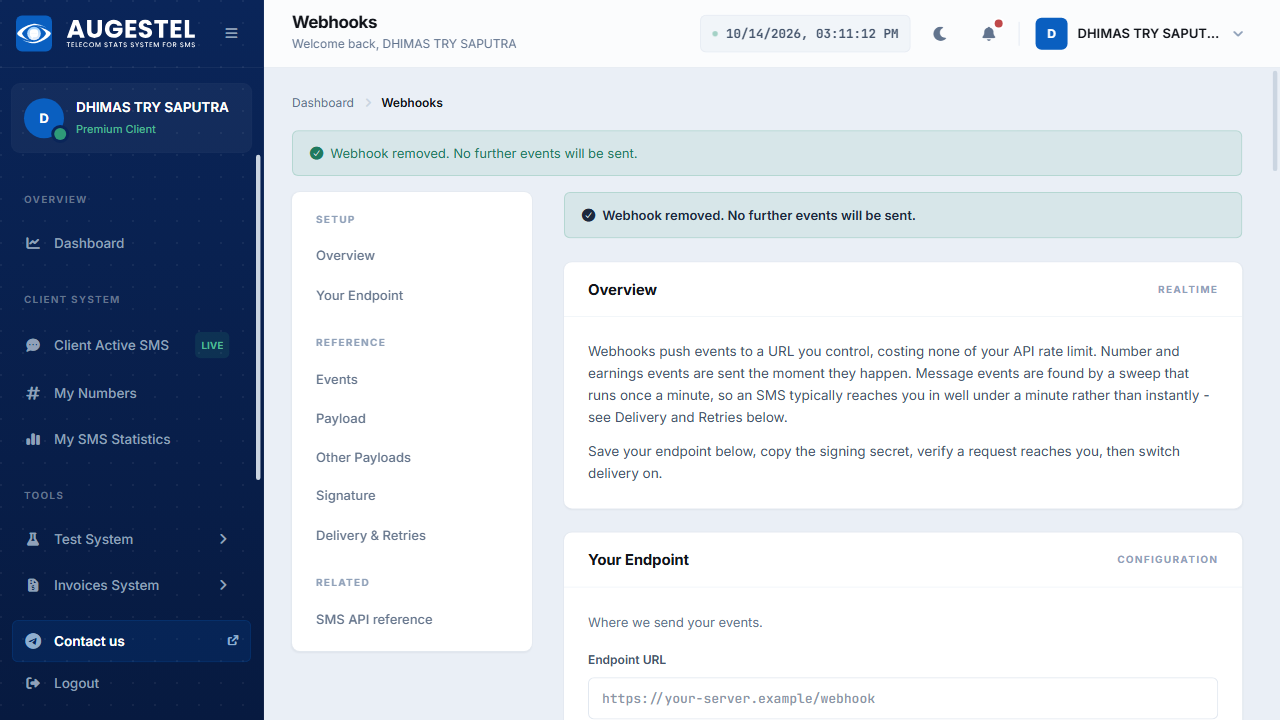
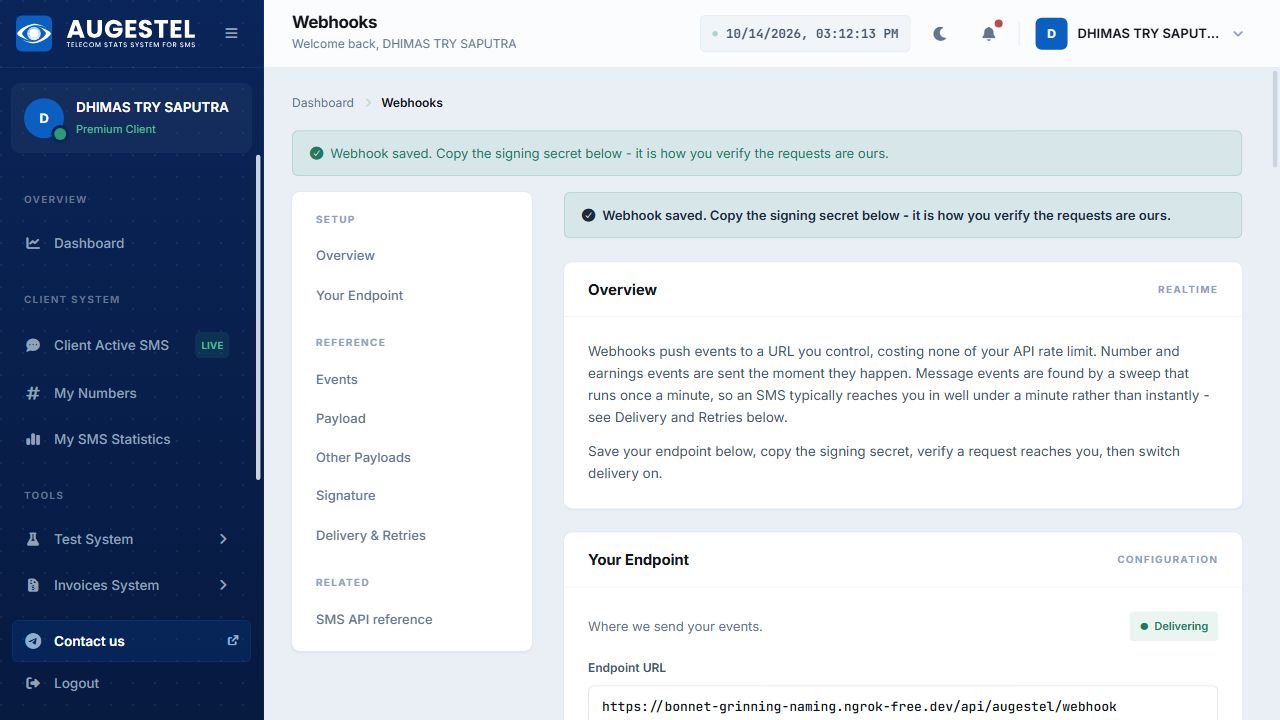
auto-update: webhook_result_acc_1.png, augestel_browser_pool.py [2026-10-14 22:12:40]

diff --git a/augestel_browser_pool.py b/augestel_browser_pool.py
@@ -730,52 +730,42 @@ class AugestelBrowserPool:
                 await page.goto("https://augestel.com/Switchfy/api/webhooks", wait_until="domcontentloaded", timeout=45000)
                 await asyncio.sleep(2)
 
-            # Isi formulir dan submit langsung via form spesifik #webhookUrl
-            js_submit_form = """
-            (whUrl) => {
-                const input = document.querySelector('#webhookUrl');
-                if (!input || !input.form) return { ok: false, error: 'input or form not found' };
-                const form = input.form;
-                
-                input.value = whUrl;
-                input.dispatchEvent(new Event('input', { bubbles: true }));
-                input.dispatchEvent(new Event('change', { bubbles: true }));
+            # 1. Isi URL webhook
+            url_input = await page.wait_for_selector("#webhookUrl", timeout=15000)
+            if url_input:
+                await url_input.fill(webhook_url)
 
-                const cb = form.querySelector('input[type="checkbox"][name="is_active"]');
-                if (cb) {
+            # 2. Centang checkbox is_active dan message.received
+            await page.evaluate("""() => {
+                const cb = document.querySelector('input[type="checkbox"][name="is_active"]');
+                if (cb && !cb.checked) {
                     cb.checked = true;
                     cb.dispatchEvent(new Event('input', { bubbles: true }));
                     cb.dispatchEvent(new Event('change', { bubbles: true }));
                 }
-
-                const msg = form.querySelector('input[type="checkbox"][name="events[]"][value="message.received"]');
-                if (msg) {
+                const msg = document.querySelector('input[type="checkbox"][name="events[]"][value="message.received"]');
+                if (msg && !msg.checked) {
                     msg.checked = true;
                     msg.dispatchEvent(new Event('input', { bubbles: true }));
                     msg.dispatchEvent(new Event('change', { bubbles: true }));
                 }
+            }""")
 
-                const btns = Array.from(form.querySelectorAll('button[type="submit"], button'));
-                const saveBtn = btns.find(b => {
-                    const t = b.innerText.toLowerCase();
-                    return (t.includes('save') || t.includes('update')) && !t.includes('remove');
-                }) || form.querySelector('button[type="submit"]');
+            await asyncio.sleep(0.5)
 
-                if (saveBtn) {
-                    saveBtn.click();
-                    return { ok: true, clicked: saveBtn.innerText.trim() };
-                } else {
-                    form.submit();
-                    return { ok: true, submitted: true };
-                }
-            }
-            """
-            submit_res = await page.evaluate(js_submit_form, webhook_url)
-            logger.info(f"Submit webhook eval: {submit_res}")
-            try:
-                await page.wait_for_load_state("domcontentloaded", timeout=15000)
-            except Exception:
-                pass
+            # 3. Cari dan klik tombol submit spesifik: "Save endpoint" atau "Update endpoint" (JANGAN sentuh "Remove"!)
+            save_btn = await page.query_selector('button:has-text("Save endpoint"), button:has-text("Update endpoint")')
+            if save_btn:
+                btn_name = (await save_btn.inner_text()).strip()
+                logger.info(f"Mengklik tombol webhook: '{btn_name}'...")
+                await save_btn.click()
+                try:
+                    await page.wait_for_load_state("domcontentloaded", timeout=15000)
+                except Exception:
+                    pass
+            else:
+                logger.warning(f"Tombol Save/Update endpoint tidak ditemukan untuk Akun #{idx}")
+
 
 
             await asyncio.sleep(2)
